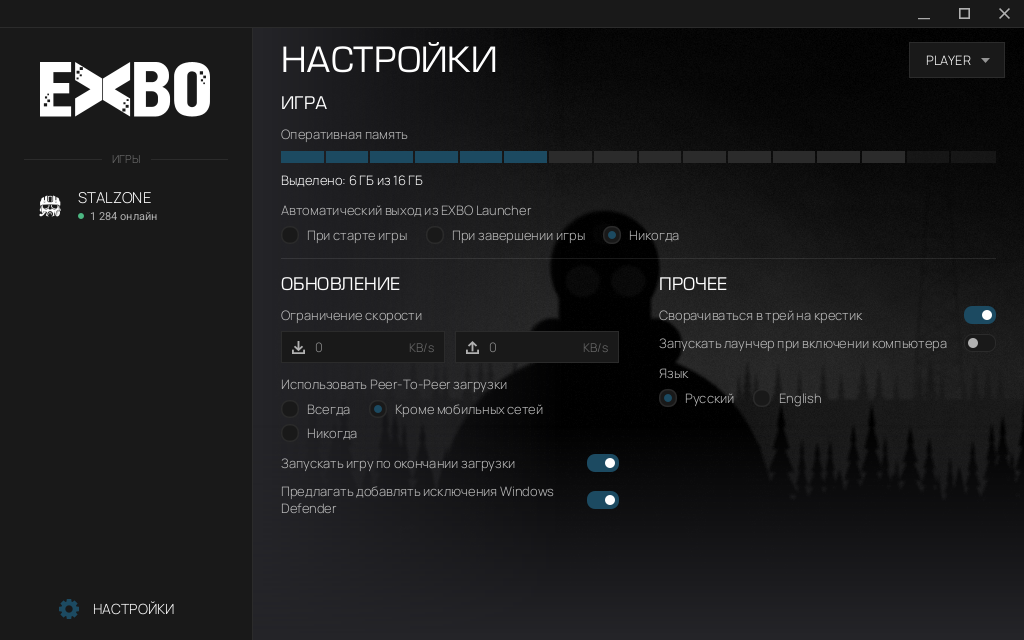
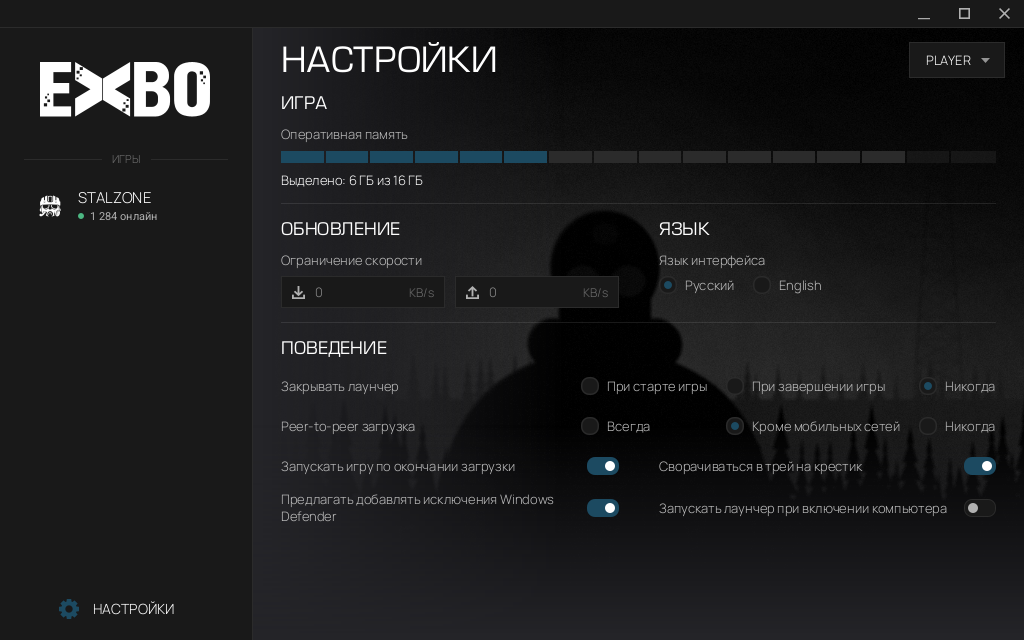
Settings: one aligned BEHAVIOUR block, GAME = RAM, UPDATES = speed limits, own LANGUAGE block
- ИГРА holds only the RAM bar; ОБНОВЛЕНИЕ only the speed limits; ЯЗЫК is a small block next to it.
- New ПОВЕДЕНИЕ / BEHAVIOUR block with every behaviour option as one uniform list (label left, control right,
  rows >= 32 px): auto-exit and P2P as single-line radio groups whose options share columns and end at the right
  edge, the four switches two per line under the UPDATES | LANGUAGE columns. Long original wording in tooltips.
- i18n: settings.heading.behaviour/language, settings.language.interface, settings.exit.short, settings.p2p.short
  (ru/en/default); settings.heading.others and settings.language.short removed.
- SettingsScreenTest checks the blocks and the row alignment at 900x580 and the default size in all themes and
  languages. Docs and screenshots updated.

diff --git a/src/test/kotlin/dev/launcherfork/SettingsScreenTest.kt b/src/test/kotlin/dev/launcherfork/SettingsScreenTest.kt
@@ -95,10 +95,10 @@ class SettingsScreenTest {
         assertEquals(0.0, s.scroll.vvalue, 1e-9)
         val window = BoundingBox(0.0, 0.0, scene.width, scene.height)
         val area = s.scroll.sceneBounds()
-        val sections = listOf(s.gameSection, s.updatesSection, s.othersSection)
+        val sections = listOf(s.gameSection, s.updatesSection, s.languageSection, s.behaviourSection)
         sections.forEach { c ->
             val b = c.sceneBounds()
-            assertTrue(b.width > 200 && b.height > 80, "$where: section ${c.id} not laid out: $b")
+            assertTrue(b.width > 200 && b.height > 60, "$where: section ${c.id} not laid out: $b")
             assertTrue(contains(area, b), "$where: section ${c.id} $b outside the settings area $area")
             assertTrue(contains(window, b), "$where: section ${c.id} $b outside the window")
             assertTrue(b.height >= c.prefHeight(c.width) - 0.5, "$where: section ${c.id} squeezed (${b.height} < ${c.prefHeight(c.width)})")
@@ -112,12 +112,16 @@ class SettingsScreenTest {
                 }
             }
         }
-        // ИГРА on top, ОБНОВЛЕНИЕ | ПРОЧЕЕ side by side under it, same top, no overlap
-        val game = s.gameSection.sceneBounds(); val upd = s.updatesSection.sceneBounds(); val oth = s.othersSection.sceneBounds()
-        assertTrue(game.maxY <= upd.minY && game.maxY <= oth.minY, "$where: ИГРА overlaps the columns")
-        assertEquals(upd.minY, oth.minY, 0.5, "$where: columns not top-aligned")
-        assertTrue(upd.maxX <= oth.minX, "$where: columns overlap")
-        assertEquals(upd.width, oth.width, 1.0, "$where: columns not equal")
+        // ИГРА on top, ОБНОВЛЕНИЕ | ЯЗЫК side by side under it (same top, equal), ПОВЕДЕНИЕ full width at the bottom
+        val game = s.gameSection.sceneBounds(); val upd = s.updatesSection.sceneBounds(); val lng = s.languageSection.sceneBounds()
+        val beh = s.behaviourSection.sceneBounds()
+        assertTrue(game.maxY <= upd.minY && game.maxY <= lng.minY, "$where: ИГРА overlaps the columns")
+        assertEquals(upd.minY, lng.minY, 0.5, "$where: columns not top-aligned")
+        assertTrue(upd.maxX <= lng.minX, "$where: columns overlap")
+        assertEquals(upd.width, lng.width, 1.0, "$where: columns not equal")
+        assertTrue(beh.minY >= maxOf(upd.maxY, lng.maxY), "$where: ПОВЕДЕНИЕ overlaps the columns")
+        assertEquals(game.minX, beh.minX, 0.5); assertEquals(game.maxX, beh.maxX, 0.5, "$where: ПОВЕДЕНИЕ not full width")
+        checkBehaviourRows(s, where, upd, lng)
         // the title shares the profile row and does not run under PLAYER
         val title = s.settingsTitle.sceneBounds()
         val profile = main.profileBarController.loginButton.sceneBounds()
@@ -126,6 +130,46 @@ class SettingsScreenTest {
         assertTrue(game.maxX <= scene.width, "$where: ИГРА outside")
         if (w == Theme.WINDOW_MIN_WIDTH) preview(scene, "settings-$theme-$lang-min")
         else if (lang == "ru") preview(scene, "settings-$theme")
+    }
+
+    /**
+     * ПОВЕДЕНИЕ is one uniform list: every row "label left, control right", at least 32 px high; the two choices are
+     * single lines of radios whose options line up in columns and end at the right edge; switches end at their
+     * column's right edge, and the grid's columns line up with ОБНОВЛЕНИЕ | ЯЗЫК above.
+     */
+    private fun checkBehaviourRows(s: SettingsController, where: String, upd: Bounds, lang: Bounds) {
+        val grid = s.behaviourGrid.sceneBounds()
+        val exit = listOf(s.exitOnStart, s.exitOnGameExit, s.exitNever).map { it.sceneBounds() }
+        val p2p = listOf(s.p2pAlways, s.p2pNotMobile, s.p2pNever).map { it.sceneBounds() }
+        listOf(s.exitLabel to exit, s.p2pLabel to p2p).forEach { (label, rb) ->
+            val lb = label.sceneBounds()
+            rb.forEach { assertEquals(rb[0].centerY, it.centerY, 0.5, "$where: '${label.text}' choices not on one line") }
+            assertEquals(rb[0].centerY, lb.centerY, 1.0, "$where: '${label.text}' label not on the choices' line")
+            assertEquals(grid.minX, lb.minX, 0.5, "$where: '${label.text}' label not at the left edge")
+            assertTrue(lb.maxX < rb.first().minX, "$where: '${label.text}' label runs into the choices")
+            assertEquals(grid.maxX, rb.last().maxX, 1.0, "$where: '${label.text}' choices not at the right edge")
+        }
+        exit.zip(p2p).forEach { (e, p) -> assertEquals(e.minX, p.minX, 0.5, "$where: choice columns not aligned") }
+        assertTrue(p2p[0].centerY - exit[0].centerY >= 32.0, "$where: choice rows lower than 32")
+
+        val left = listOf(s.startOnDownloadedRow, s.defenderRow)
+        val right = listOf(s.trayRow, s.autostartRow)
+        (left + right).forEach { assertTrue(it.sceneBounds().height >= 31.5, "$where: ${it.id} lower than 32") }
+        // the toggle rows of one grid line have the same height and top
+        left.zip(right).forEach { (l, r) ->
+            assertEquals(l.sceneBounds().minY, r.sceneBounds().minY, 0.5, "$where: grid rows not aligned")
+            assertEquals(l.sceneBounds().height, r.sceneBounds().height, 0.5, "$where: grid rows differ in height")
+        }
+        // order: auto-exit, P2P, then the switches
+        val tops = listOf(exit[0].minY, p2p[0].minY, s.startOnDownloadedRow.sceneBounds().minY, s.defenderRow.sceneBounds().minY)
+        assertEquals(tops.sorted(), tops, "$where: row order")
+        (left + right).forEach { row ->
+            val sw = row.children.last().sceneBounds()
+            val inLeft = row in left
+            assertEquals(if (inLeft) upd.maxX else lang.maxX, sw.maxX, 1.0, "$where: ${row.id} switch not at its column's right edge")
+            assertEquals(if (inLeft) upd.minX else lang.minX, row.sceneBounds().minX, 1.0, "$where: ${row.id} not in the column under ${if (inLeft) "ОБНОВЛЕНИЕ" else "ЯЗЫК"}")
+        }
+        assertEquals(grid.maxX, lang.maxX, 1.0, "$where: grid and columns have different right edges")
     }
 
     private fun settingsWith(settings: LauncherSettings, totalMb: Long = 16 * gb, lang: String = "ru"): Pair<SettingsController, InMemorySettingsStore> {
@@ -295,24 +339,32 @@ class SettingsScreenTest {
             listOf(c.trayToggle, c.autostartToggle, c.defenderToggle, c.startOnDownloadedToggle).forEach { t ->
                 assertTrue("switch" in t.styleClass, "${t.accessibleText} is not a switch")
             }
-            // grouped like the original launcher: Defender and start-after-download under ОБНОВЛЕНИЕ, tray/autostart under ПРОЧЕЕ
+            // blocks: ИГРА = RAM only, ОБНОВЛЕНИЕ = speed limits only, ЯЗЫК, and every behaviour option in ПОВЕДЕНИЕ
             fun under(n: javafx.scene.Node, p: javafx.scene.Node) = generateSequence(n) { it.parent }.any { it === p }
-            assertTrue(under(c.defenderToggle, c.updatesSection) && under(c.startOnDownloadedToggle, c.updatesSection))
-            assertTrue(under(c.trayToggle, c.othersSection) && under(c.autostartToggle, c.othersSection))
-            assertTrue(under(c.ramBar, c.gameSection) && under(c.exitNever, c.gameSection))
+            listOf(c.exitOnStart, c.exitOnGameExit, c.exitNever, c.p2pAlways, c.p2pNotMobile, c.p2pNever,
+                c.startOnDownloadedToggle, c.defenderToggle, c.trayToggle, c.autostartToggle).forEach { n ->
+                assertTrue(under(n, c.behaviourSection), "${n.id ?: n.accessibleText} not in ПОВЕДЕНИЕ")
+            }
+            assertTrue(under(c.ramBar, c.gameSection) && under(c.ramSummary, c.gameSection))
+            assertTrue(c.gameSection.lookupAll(".radio-button").isEmpty() && c.gameSection.lookupAll(".check-box").isEmpty(), "ИГРА holds only the RAM bar")
+            assertTrue(under(c.downloadLimitField, c.updatesSection) && under(c.uploadLimitField, c.updatesSection))
+            assertTrue(c.updatesSection.lookupAll(".radio-button").isEmpty() && c.updatesSection.lookupAll(".check-box").isEmpty(), "ОБНОВЛЕНИЕ holds only the limits")
+            assertTrue(under(c.langRu, c.languageSection) && under(c.langEn, c.languageSection))
+            assertEquals("ПОВЕДЕНИЕ", c.behaviourHeading.text); assertEquals("ЯЗЫК", c.languageHeading.text)
         }
     }
 
     @Test
     fun newStringsInEveryBundle() {
-        val keys = listOf("settings.page.title", "settings.language.short", "settings.ram.summary",
-            "settings.ram.hint", "settings.unit.gb")
+        val keys = listOf("settings.page.title", "settings.ram.summary", "settings.ram.hint", "settings.unit.gb",
+            "settings.heading.behaviour", "settings.heading.language", "settings.language.interface", "settings.exit.short", "settings.p2p.short")
         listOf("messages.properties", "messages_ru.properties", "messages_en.properties").forEach { file ->
             val props = Properties()
             javaClass.getResourceAsStream("/dev/launcherfork/ui/i18n/$file")!!.reader(Charsets.UTF_8).use(props::load)
             keys.forEach { k -> assertTrue(!props.getProperty(k).isNullOrBlank(), "$file misses $k") }
             assertNull(props.getProperty("settings.ram.recommended"), "$file: stale chip caption key")
             assertNull(props.getProperty("settings.ram.recommended_value"), "$file: stale recommended line")
+            assertNull(props.getProperty("settings.heading.others"), "$file: ПРОЧЕЕ is gone")
             assertTrue(props.getProperty("settings.ram.hint").contains("%s"), "$file: the hint names the recommended value")
         }
     }

diff --git a/src/main/kotlin/dev/launcherfork/ui/screens/settings/SettingsController.kt b/src/main/kotlin/dev/launcherfork/ui/screens/settings/SettingsController.kt
@@ -16,11 +16,12 @@ import javafx.scene.control.TextFormatter
 import javafx.scene.control.Tooltip
 import javafx.scene.control.ToggleGroup
 import javafx.scene.layout.AnchorPane
+import javafx.scene.layout.GridPane
 import javafx.scene.layout.HBox
 import javafx.scene.layout.VBox
 
 /**
- * settings.fxml: one-screen layout (sections ИГРА / ОБНОВЛЕНИЕ / ПРОЧЕЕ, grouped like the original launcher) bound to [dev.launcherfork.domain.SettingsStore].
+ * settings.fxml: one-screen layout (blocks ИГРА / ОБНОВЛЕНИЕ / ЯЗЫК / ПОВЕДЕНИЕ) bound to [dev.launcherfork.domain.SettingsStore].
  * Every change is saved immediately. The language radio rebuilds the main screen via the navigator.
  */
 class SettingsController(private val ctx: UiContext) {
@@ -30,11 +31,17 @@ class SettingsController(private val ctx: UiContext) {
     @FXML lateinit var settingsTitle: Label
     @FXML lateinit var gameSection: VBox
     @FXML lateinit var updatesSection: VBox
-    @FXML lateinit var othersSection: VBox
+    @FXML lateinit var languageSection: VBox
+    @FXML lateinit var behaviourSection: VBox
+    @FXML lateinit var behaviourGrid: GridPane
+    @FXML lateinit var choicesGrid: GridPane
+    @FXML lateinit var exitLabel: Label
+    @FXML lateinit var p2pLabel: Label
     @FXML lateinit var columns: HBox
     @FXML lateinit var gameHeading: Label
     @FXML lateinit var updatesHeading: Label
-    @FXML lateinit var othersHeading: Label
+    @FXML lateinit var languageHeading: Label
+    @FXML lateinit var behaviourHeading: Label
 
     @FXML lateinit var ramBar: RamBar
     @FXML lateinit var ramSummary: Label
@@ -78,6 +85,10 @@ class SettingsController(private val ctx: UiContext) {
         bindRadios(p2pGroup, mapOf(p2pAlways to P2pMode.ALWAYS, p2pNotMobile to P2pMode.EXCEPT_MOBILE, p2pNever to P2pMode.NEVER), s.p2pMode) { v ->
             update { it.copy(p2pMode = v) }
         }
+
+        // the rows of ПОВЕДЕНИЕ carry short captions; the original long wording is the tooltip
+        exitLabel.tooltip = Tooltip(ctx.t("settings.exit"))
+        p2pLabel.tooltip = Tooltip(ctx.t("settings.p2p"))
 
         bindLimit(downloadLimitBox, downloadLimitField, "settings.limit.download", s.downloadLimitKb) { v -> update { it.copy(downloadLimitKb = v) } }
         bindLimit(uploadLimitBox, uploadLimitField, "settings.limit.upload", s.uploadLimitKb) { v -> update { it.copy(uploadLimitKb = v) } }

diff --git a/src/main/resources/dev/launcherfork/ui/style/layout.css b/src/main/resources/dev/launcherfork/ui/style/layout.css
@@ -387,6 +387,12 @@
     -fx-background-color: -divider-light;
 }
 .radio-row { -fx-hgap: 18; -fx-vgap: 6; }
+/* ПОВЕДЕНИЕ: one list of equal rows (label left, control right) in a two-column grid; the columns line up with
+   ОБНОВЛЕНИЕ | ЯЗЫК above (same 40 px gap). */
+.behaviour-grid { -fx-hgap: 40; -fx-vgap: 8; }
+.behaviour-grid > .toggle-row { -fx-min-height: 32; }
+.choices-grid { -fx-hgap: 18; -fx-vgap: 8; }
+.choice-group { -fx-spacing: 18; }
 
 /* radio: ring + accent dot (16 px) */
 .settings-radio { -fx-font-size: 13; -fx-text-fill: -text-label; -fx-label-padding: 0 0 0 8; -fx-cursor: hand; }

diff --git a/README.md b/README.md
@@ -178,7 +178,7 @@ src/main/resources/dev/launcherfork/
      закэширован, фокус в диалоге; логотип — 4 `SVGPath` с even-odd, равномерный масштаб, заливка из токена.
    - `SettingsScreenTest`: настройки помещаются без прокрутки при 900×580 и при размере по умолчанию во всех темах
      и языках (`localToScene`), шкала RAM из сегментов (по одному на ГБ, заполнено N из M, подпись совпадает),
-     клавиатура и мышь меняют значение с шагом 1 ГБ в границах и сохраняют его, группы как в оригинале, без карточек. `GameActionsMenuTest`: меню плавает и не сдвигает ИГРАТЬ, пункты по
+     клавиатура и мышь меняют значение с шагом 1 ГБ в границах и сохраняют его; блоки ИГРА / ОБНОВЛЕНИЕ | ЯЗЫК / ПОВЕДЕНИЕ, строки ПОВЕДЕНИЯ выровнены (подпись слева, контрол справа, высота от 32 px), без карточек. `GameActionsMenuTest`: меню плавает и не сдвигает ИГРАТЬ, пункты по
      состоянию клиента, подтверждение (отмена = ничего не происходит), папка через `FolderOpener`.
    - `ClientStateStore` (скачивание, пауза, продолжение, готово, запуск, «выйти», поздние колбэки после паузы
      и рестарта, shutdown) на ручных фейках, без таймеров.
@@ -245,9 +245,10 @@ src/main/resources/dev/launcherfork/
   Шаг ровно 1 ГБ, границы от 2 ГБ до «память − 2 ГБ» (сегменты резерва приглушены), рекомендуемое значение — в
   подсказке (`domain/RamOptions`). Клавиши ←/→/↑/↓, PgUp/PgDn, Home/End.
 - **Страница настроек** собрана заново в духе «минимализм, простой и понятный интерфейс без лишних элементов»:
-  без карточек, декоративных линий и строк-подсказок (пояснения в тултипах), вкл/выкл — переключатели, а не кольца как у
-  радио. Группы как в оригинале: ИГРА (память, автовыход), ОБНОВЛЕНИЕ (лимиты скорости, P2P, запуск после загрузки,
-  Defender), ПРОЧЕЕ (трей, автозапуск, язык). Помещается на один экран при 900×580 во всех темах и языках.
+  без карточек, декоративных линий и строк-подсказок (пояснения в тултипах). Блоки: ИГРА (только шкала памяти),
+  ОБНОВЛЕНИЕ (только лимиты скорости) | ЯЗЫК в две колонки и ПОВЕДЕНИЕ — один ровный список «подпись слева, контрол
+  справа»: автовыход и P2P одной строкой радио (варианты выровнены по колонкам), четыре вкл/выкл-переключателя по два
+  в ряд под колонками выше. Помещается на один экран при 900×580 во всех темах и языках.
 - **Действия с игрой**: тихая квадратная кнопка-призрак «⋯» (тонкая рамка, три точки 2.5 px приглушённого цвета, ярче при наведении) слева от ИГРАТЬ открывает плавающее меню (Проверить файлы, Открыть
   папку игры, Настройки игры, Переустановить, Удалить игру). Переустановка и удаление (и проверка запущенной игры)
   сначала спрашивают подтверждение, пока операция идёт, ИГРАТЬ неактивна. Операции — моки `MockUpdateService`.

diff --git a/docs/design/STYLE-ZONE.md b/docs/design/STYLE-ZONE.md
@@ -149,11 +149,14 @@ Oswald), поэтому кегли заголовков в `theme-zone.css` ув
   при фокусе `-ring` (красная), текст `-input-foreground`, подсказка `-placeholder`.
 - **Радио / тумблер**: кольцо Ø16, обводка 1.5 px `-border`, заливка `-input`. Выбранное — красная точка Ø8.
 - **Настройки** (`settings.fxml`): один экран без прокрутки при 900×580, минимализм — без карточек, линий под
-  заголовками и строк-подсказок. Заголовок «НАСТРОЙКИ» (Bebas 40) в строке кнопки профиля, раздел ИГРА на всю ширину,
-  одна линия `-divider-light`, ниже ОБНОВЛЕНИЕ | ПРОЧЕЕ в две равные колонки (зазор 40). Заголовок раздела Bebas 21,
-  подписи 13 px `-text-label`, радио в ряд (`FlowPane`), лимиты — два поля 32 px с иконками ↓/↑ (пояснение «0 — без
-  ограничений» в тултипе), вкл/выкл — переключатель 30×16 справа (выкл: `-input` и ручка `-muted-foreground`, вкл:
-  `-primary` и ручка `-primary-foreground`). Группы как в оригинале (`settings.category.*`).
+  заголовками и строк-подсказок. Заголовок «НАСТРОЙКИ» (Bebas 40) в строке кнопки профиля, затем блоки через линию
+  `-divider-light`: ИГРА (только шкала памяти) на всю ширину; ОБНОВЛЕНИЕ (лимиты — два поля 32 px с иконками ↓/↑,
+  «0 — без ограничений» в тултипе) | ЯЗЫК в две равные колонки (зазор 40); ПОВЕДЕНИЕ на всю ширину — `GridPane` с теми
+  же колонками: каждая строка «подпись слева, контрол справа», высота от 32 px. Автовыход и P2P — короткая подпись
+  (полная формулировка в тултипе) и радио в одну строку, варианты двух строк стоят в общих колонках, последний
+  упирается в правый край; четыре переключателя 30×16 по два в ряд, правый край — край своей колонки (выкл: `-input`
+  и ручка `-muted-foreground`, вкл: `-primary` и ручка `-primary-foreground`). Заголовок блока Bebas 21, подписи
+  13 px `-text-label`.
 - **Шкала RAM** (`RamBar`, логика `domain/RamOptions`) — как в оригинальном лаунчере: полоса 12 px из равных
   сегментов с зазором 2 px (сегмент = 1 ГБ памяти компьютера), без бегунка и делений; заполненные `-primary`,
   пустые `-track`, резерв системы (выше «память − 2 ГБ») с прозрачностью 0.4. Под полосой «Выделено: 6 ГБ из 16 ГБ»
